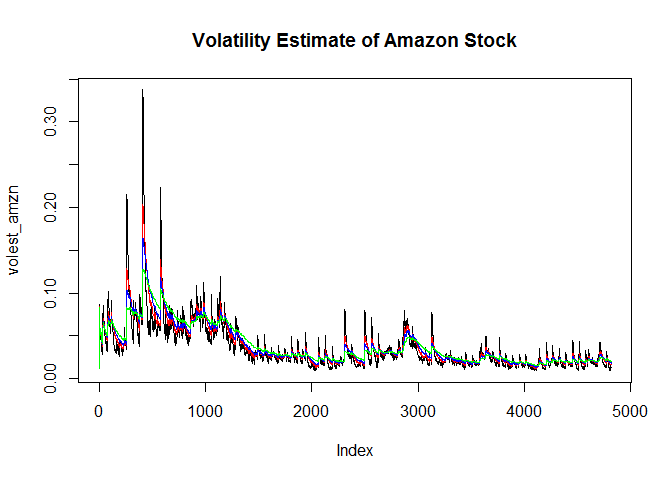
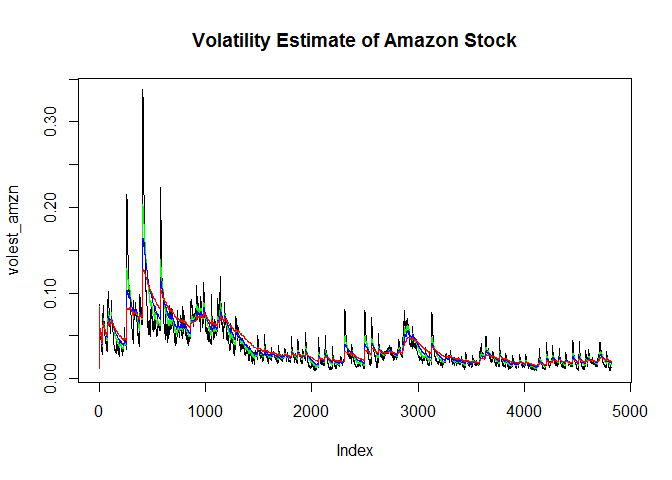
Fourth Commit

diff --git a/Unit9.5VolEst.html b/Unit9.5VolEst.html
@@ -173,10 +173,10 @@ volest3_amzn &lt;- Vol(100, AMZNret) # Decay factor 99
 
 plot(volest_amzn, type=&quot;l&quot;, main=&quot;Volatility Estimate of Amazon Stock&quot;)
 
-lines(volest1_amzn, type=&quot;l&quot;, col=&quot;red&quot;)
+lines(volest1_amzn, type=&quot;l&quot;, col=&quot;green&quot;)
 lines(volest2_amzn, type=&quot;l&quot;, col=&quot;blue&quot;)
-lines(volest3_amzn, type=&quot;l&quot;, col=&quot;green&quot;)</code></pre>
[1 lines of base64/hex data omitted]
+lines(volest3_amzn, type=&quot;l&quot;, col=&quot;red&quot;)</code></pre>
[1 lines of base64/hex data omitted]
 </div>
 
 

diff --git a/Unit9.5VolEst.md b/Unit9.5VolEst.md
@@ -69,9 +69,9 @@ volest3_amzn <- Vol(100, AMZNret) # Decay factor 99
 
 plot(volest_amzn, type="l", main="Volatility Estimate of Amazon Stock")
 
-lines(volest1_amzn, type="l", col="red")
+lines(volest1_amzn, type="l", col="green")
 lines(volest2_amzn, type="l", col="blue")
-lines(volest3_amzn, type="l", col="green")
+lines(volest3_amzn, type="l", col="red")
 ```
 
 ![](Unit9.5VolEst_files/figure-html/unnamed-chunk-1-1.png)<!-- -->
